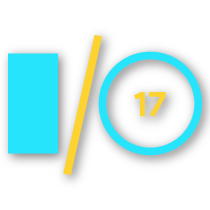
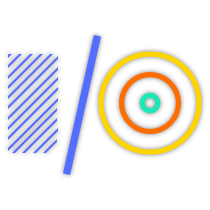
images for google io 2018

diff --git a/public/countdown/assets/styles.css b/public/countdown/assets/styles.css
@@ -4,12 +4,11 @@
 }
 
 @keyframes colors {
-  0% { background-color: #5471f9; }
-  20% { background-color: #27e4fd; }
-  40% { background-color: #31e7b6; }
-  60% { background-color: #fed330; }
-  80% { background-color: #ff6c00; }
-  100% { background-color: #5471f9; }
+  0% { background-color: #536dfe; }
+  25% { background-color: #1ce8b5; }
+  50% { background-color: #ffd500; }
+  75% { background-color: #ff6c00; }
+  100% { background-color: #536dfe; }
 }
 
 @keyframes bounceInUp {
@@ -86,7 +85,7 @@ body {
 }
 
 .c-header .brand {
-  width: 480px;
+  width: 581px;
 }
 
 .c-header .organizer {
@@ -143,7 +142,7 @@ body {
 
 .c-countdown {
   animation: colors 60s infinite;
-  background: #5471F9 url('ncat.gif') left center no-repeat;
+  background: #536dfe url('ncat.gif') left center no-repeat;
   background-size: 120px;
   color: white;
   font-size: 100px;

diff --git a/public/countdown/index.html b/public/countdown/index.html
@@ -26,9 +26,13 @@
     <div class="label"></div>
 
     <div class="partners">
-      <img src="/countdown/assets/partners/faap.png" alt="" class="partner">
+      <img src="/countdown/assets/partners/reges.png" alt="" class="partner">
       <img src="/countdown/assets/partners/formaweb.png" alt="" class="partner">
-      <img src="/countdown/assets/partners/devinterior.png" alt="" class="partner">
+      <img src="/countdown/assets/partners/iclinic.png" alt="" class="partner">
+      <img src="/countdown/assets/partners/center-cursos.png" alt="" class="partner">
+      <img src="/countdown/assets/partners/chiclete-marketing.png" alt="" class="partner">
+      <img src="/countdown/assets/partners/create-storm.png" alt="" class="partner">
+      <img src="/countdown/assets/partners/engajei.png" alt="" class="partner">
     </div>
   </footer>
 </body>

diff --git a/public/countdown/assets/scripts.js b/public/countdown/assets/scripts.js
@@ -3,12 +3,12 @@ let partnersSpeed = 5000;
 
 let presets = [{
   timestamp: (Date.now() / 1000) + 60,
-  label: '#io17 #io17rp #nafaap'
+  label: '#io18 #io18extended #io18rp'
 }, {
-  timestamp: 1495024500,
+  timestamp: 1525781700,
   label: 'Bem-vindos, fiquem à vontade.'
 }, {
-  timestamp: 1495038900,
+  timestamp: 1525797000,
   label: 'Almooooço! Voltamos às 13h30.'
 }, {
   timestamp: (Date.now() / 1000) + 2100,
